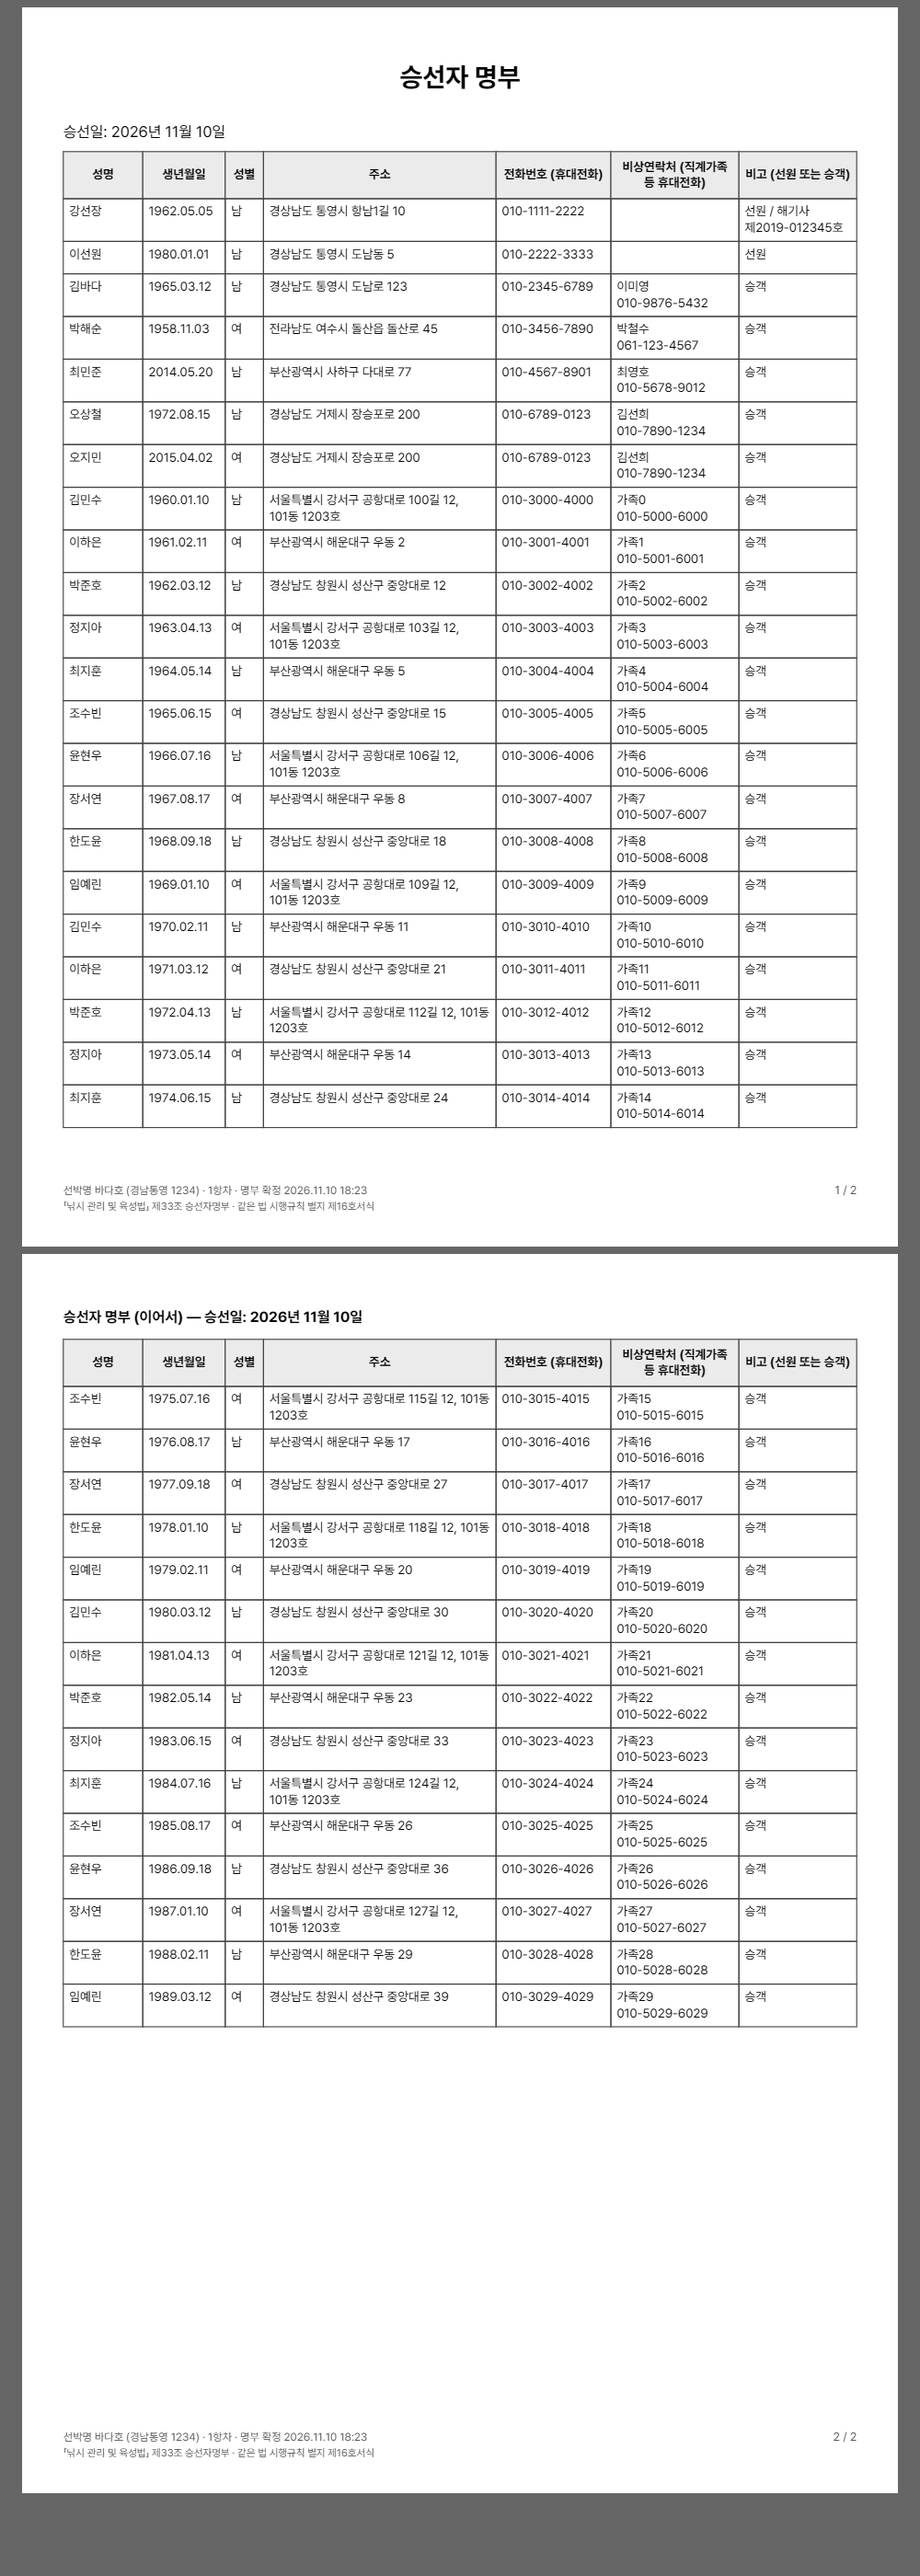
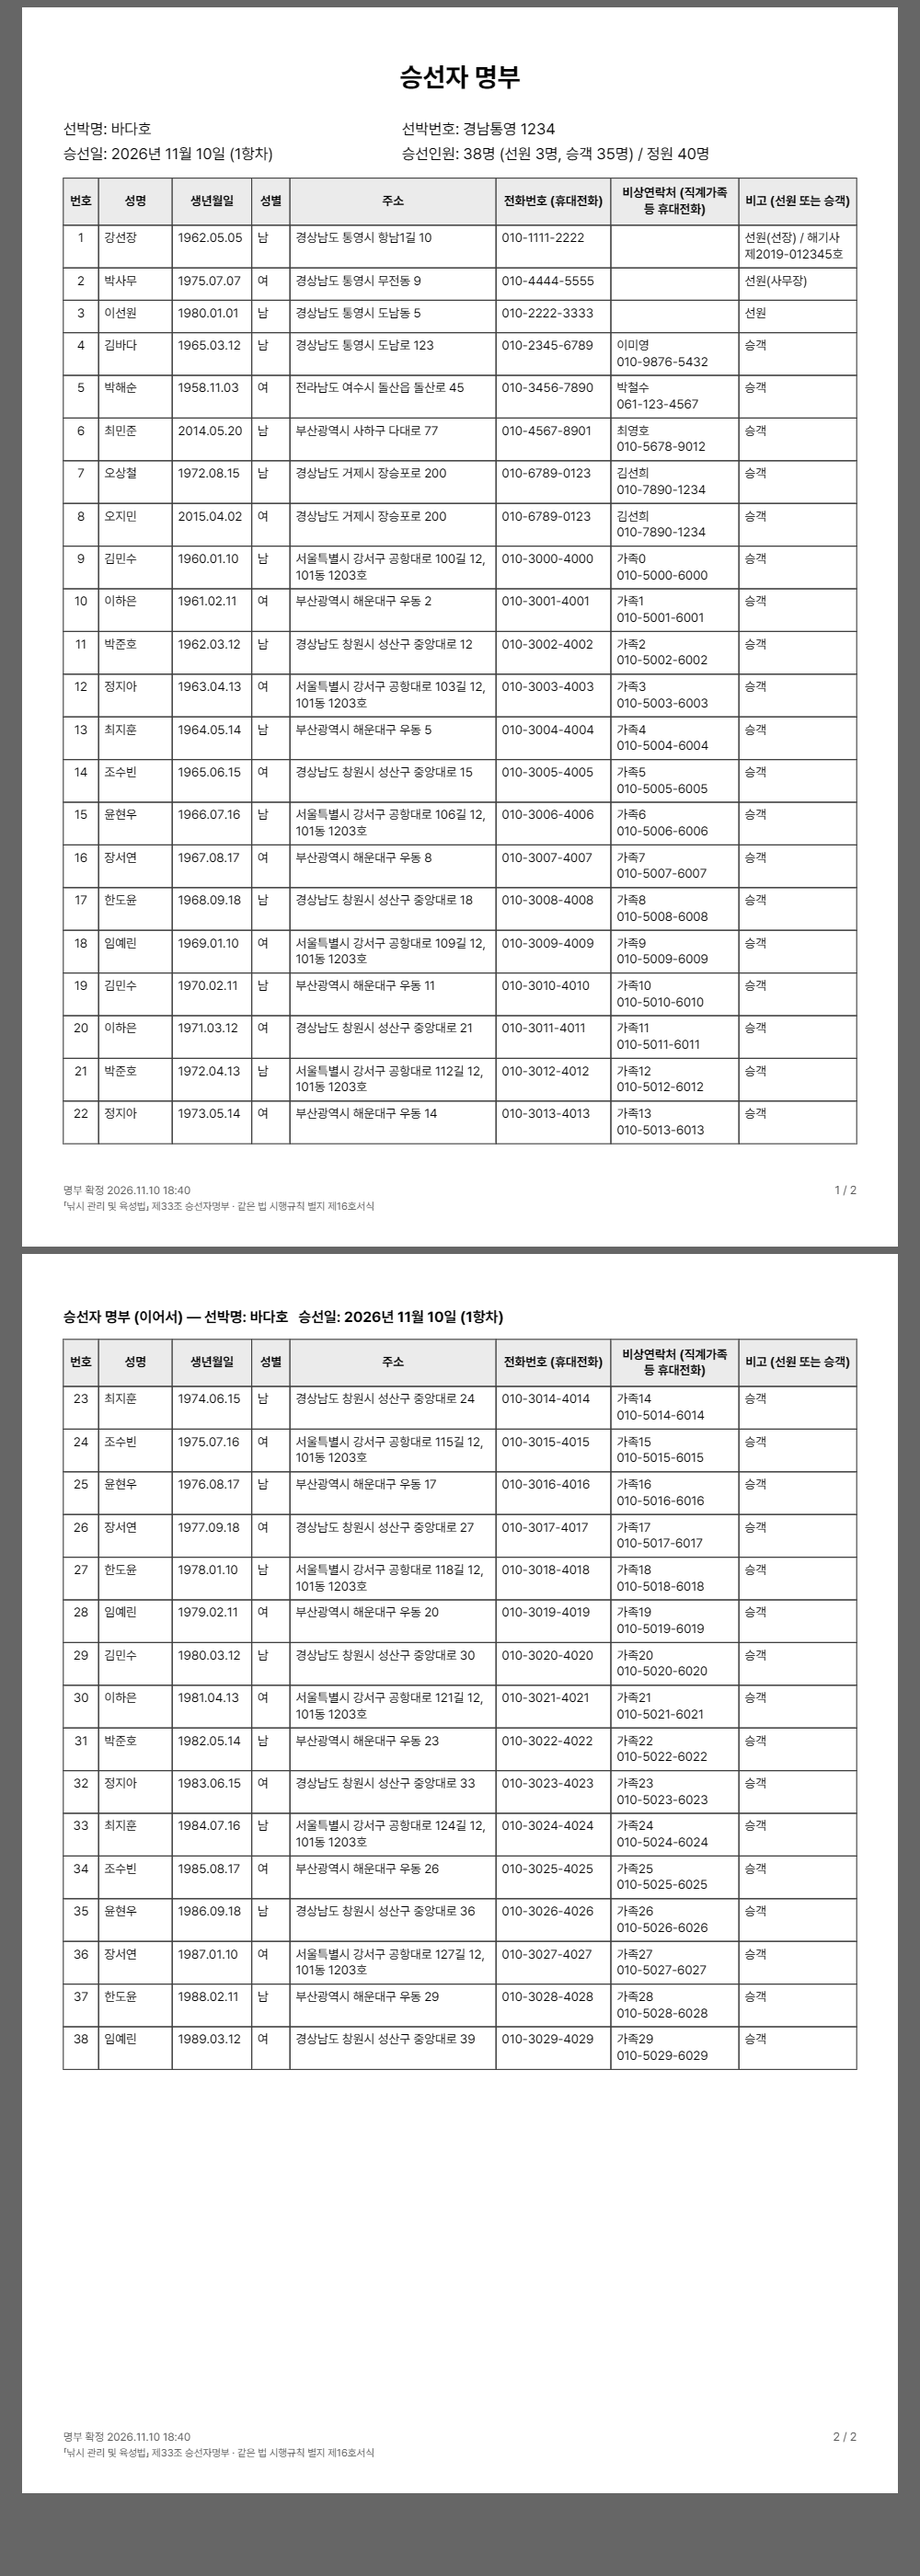
PDF에 배 정보·승선인원·번호, 선장·사무장 순서
- PDF 위쪽: 선박명·선박번호, 승선일(항차), 승선인원(선원·승객)/정원
- 표 맨 앞 번호 칸. 선장 1번 → 사무장 2번(있으면) → 선원 → 승객
- 선장·선원 구분에 사무장 추가(선장·사무장은 한 명씩)

diff --git a/captain/export.js b/captain/export.js
@@ -31,10 +31,13 @@
   }
   function hm(ts) { var d = new Date(ts); return pad(d.getHours()) + ':' + pad(d.getMinutes()); }
 
-  // 명부 한 장의 줄: 선장·선원이 맨 위, 그다음 승객(제외한 사람은 빼고, 일행끼리 붙여서)
+  // 명부 한 장의 줄: 선장(1번) → 사무장(있으면 2번) → 선원 → 승객(제외한 사람은 빼고, 일행끼리 붙여서)
+  function roleRank(r) { return r === '선장' ? 0 : r === '사무장' ? 1 : 2; }
   function manifestRows(voyage, passengers) {
     var rows = [], n = 0;
-    (voyage.crew || []).forEach(function (c) {
+    (voyage.crew || []).map(function (c, i) { return { c: c, i: i }; })
+      .sort(function (a, b) { return roleRank(a.c.role) - roleRank(b.c.role) || a.i - b.i; })
+      .forEach(function (x) { var c = x.c;
       rows.push({ no: ++n, kind: c.role, name: c.name, birth: c.birth, sex: c.sex, addr: c.addr, phone: c.phone, license: c.license || '',
         emer: '-', group: '-', idcheck: '-' });
     });
@@ -116,21 +119,29 @@
 
   // 법정 서식(낚시 관리 및 육성법 시행규칙 별지 제16호서식) 칸 순서 — PDF 전용. 일행·신분증 확인 같은 앱 정보는 엑셀에만
   var FORM_COLUMNS = [
-    { header: '성명', w: 54, get: function (r) { return r.name; } },
-    { header: '생년월일', w: 56, get: function (r) { return String(r.birth || '').replace(/-/g, '.'); } },
+    { header: '번호', w: 24, get: function (r) { return String(r.no); }, center: true },
+    { header: '성명', w: 50, get: function (r) { return r.name; } },
+    { header: '생년월일', w: 54, get: function (r) { return String(r.birth || '').replace(/-/g, '.'); } },
     { header: '성별', w: 26, get: function (r) { return r.sex; } },
-    { header: '주소', w: 158, get: function (r) { return r.addr; } },
+    { header: '주소', w: 140, get: function (r) { return r.addr; } },
     { header: '전화번호 (휴대전화)', w: 78, get: function (r) { return r.phone; } },
     { header: '비상연락처 (직계가족 등 휴대전화)', w: 87, get: function (r) { return r.kind === '승객' ? r.emer : ''; } },
-    { header: '비고 (선원 또는 승객)', w: 80, get: function (r) { return r.kind === '승객' ? '승객' : '선원' + (r.license ? ' / ' + r.license : ''); } }
+    { header: '비고 (선원 또는 승객)', w: 80, get: function (r) { return r.kind === '승객' ? '승객' : (r.kind === '선원' ? '선원' : '선원(' + r.kind + ')') + (r.license ? ' / ' + r.license : ''); } }
   ];
   function formDate(ymd) {
     var p = String(ymd || '').split('-');
     return p.length === 3 ? p[0] + '년 ' + p[1] + '월 ' + p[2] + '일' : '';
   }
+  // 서식 위쪽: 배 이름·번호, 승선일, 승선인원(정원은 선장이 처음 넣은 배 정보)
+  function formHead(vessel, voyage, passengers) {
+    var pax = passengers.filter(function (p) { return !p.excluded; }).length, crew = (voyage.crew || []).length;
+    return [
+      ['선박명: ' + vessel.name, '선박번호: ' + vessel.number],
+      ['승선일: ' + formDate(voyage.date) + ' (' + voyage.no + '항차)', '승선인원: ' + (pax + crew) + '명 (선원 ' + crew + '명, 승객 ' + pax + '명) / 정원 ' + vessel.capacity + '명']
+    ];
+  }
   function formInfo(vessel, voyage) {
-    return '선박명 ' + vessel.name + ' (' + vessel.number + ') · ' + voyage.no + '항차' +
-      (voyage.confirmedAt ? ' · 명부 확정 ' + dateTime(voyage.confirmedAt) : ' · 확정 전');
+    return voyage.confirmedAt ? '명부 확정 ' + dateTime(voyage.confirmedAt) : '확정 전';
   }
 
   function pdf(vessel, voyage, passengers) {
@@ -141,7 +152,8 @@
         doc.setTitle(fileBase(vessel, voyage));
         doc.setCreator('승선명부 앱');
         // 명부에 쓰는 글자를 모두 모아 그 글자만 남긴 글꼴을 만든 뒤 통째로 심는다
-        var text = ['승선자 명부', '승선일: ' + formDate(voyage.date), formInfo(vessel, voyage), FOOT, '(이어서) — / 0123456789.:']
+        var text = ['승선자 명부 선원() 사무장 선장', formInfo(vessel, voyage), FOOT, '(이어서) — / 0123456789.:']
+          .concat([].concat.apply([], formHead(vessel, voyage, passengers)))
           .concat(FORM_COLUMNS.map(function (c) { return c.header; }))
           .concat(manifestRows(voyage, passengers).map(function (r) { return FORM_COLUMNS.map(function (c) { return c.get(r); }).join(' '); }))
           .join(' ');
@@ -161,7 +173,7 @@
     var ink = L.rgb(0, 0, 0), line = L.rgb(0.25, 0.25, 0.25), head = L.rgb(0.92, 0.92, 0.92), muted = L.rgb(0.35, 0.35, 0.35);
     var rows = manifestRows(voyage, passengers);
     var TW = FORM_COLUMNS.reduce(function (a, c) { return a + c.w; }, 0), X0 = (W - TW) / 2;
-    var title = '승선자 명부', dateLine = '승선일: ' + formDate(voyage.date);
+    var title = '승선자 명부', headLines = formHead(vessel, voyage, passengers);
     var pages = [], page, y;
     var headCells = FORM_COLUMNS.map(function (c) { return wrap(c.header, bold, HSIZE, c.w - PAD * 2); });
     var headH = Math.max.apply(null, headCells.map(function (c) { return c.length; })) * LH + PAD * 2 + 2;
@@ -173,11 +185,15 @@
       if (pages.length === 1) {
         var tw = bold.widthOfTextAtSize(title, 18);
         page.drawText(title, { x: (W - tw) / 2, y: y - 18, size: 18, font: bold, color: ink });
-        y -= 42;
-        page.drawText(dateLine, { x: X0, y: y - 10, size: 10.5, font: font, color: ink });
-        y -= 20;
+        y -= 40;
+        headLines.forEach(function (pair) {
+          page.drawText(pair[0], { x: X0, y: y - 10, size: 10.5, font: font, color: ink });
+          page.drawText(pair[1], { x: X0 + 230, y: y - 10, size: 10.5, font: font, color: ink });
+          y -= 17;
+        });
+        y -= 6;
       } else {
-        page.drawText(title + ' (이어서) — ' + dateLine, { x: X0, y: y - 10, size: 10, font: bold, color: ink });
+        page.drawText(title + ' (이어서) — ' + headLines[0][0] + '   ' + headLines[1][0], { x: X0, y: y - 10, size: 10, font: bold, color: ink });
         y -= 22;
       }
       drawRow(headCells, headH, true);
@@ -189,7 +205,7 @@
         var n = cellLines[i].length;
         cellLines[i].forEach(function (t, k) {
           var f = isHead ? bold : font, sz = isHead ? HSIZE : SIZE;
-          var tx = isHead ? x + (c.w - f.widthOfTextAtSize(t, sz)) / 2 : x + PAD;
+          var tx = isHead || c.center ? x + (c.w - f.widthOfTextAtSize(t, sz)) / 2 : x + PAD;
           var ty = isHead ? y - (h - n * LH) / 2 - 8 - k * LH : y - PAD - 7.5 - k * LH;
           page.drawText(t, { x: tx, y: ty, size: sz, font: f, color: ink });
         });

diff --git a/captain/db.js b/captain/db.js
@@ -1,6 +1,6 @@
 /* 선장 앱 저장소 (IndexedDB) — 테이블: vessel, crew, voyage, passenger
  * vessel   : { id:'main', name, number, capacity, deviceName, pinSalt, pinHash }
- * crew     : { id(자동), role:'선장'|'선원', name, birth, sex, addr, phone, license(해기사 면허·선원수첩 번호, 선택), order }
+ * crew     : { id(자동), role:'선장'|'사무장'|'선원', name, birth, sex, addr, phone, license(해기사 면허·선원수첩 번호, 선택), order }
  * voyage   : { id:'YYYY-MM-DD_N', date, no, openedAt, status:'open'|'confirmed', confirmedAt, sharedAt, deviceName, crew:[선장·선원 사본] }
  * passenger: { id(자동), voyageId, key(성명|생년월일|전화), name, birth, sex, addr, phone, emerName, emerPhone,
  *              grp, idx, cnt, made, source:'camera'|'image'|'manual'|'merge', addedAt, device,
@@ -79,10 +79,12 @@
     });
   }
 
+  // 명부 순서: 선장(1번) → 사무장(있으면 2번) → 선원 → 승객
+  function roleRank(r) { return r === '선장' ? 0 : r === '사무장' ? 1 : 2; }
   function crewList() {
     return all('crew').then(function (list) {
       return list.sort(function (a, b) {
-        if (a.role !== b.role) return a.role === '선장' ? -1 : 1;
+        if (a.role !== b.role) return roleRank(a.role) - roleRank(b.role);
         return (a.order || 0) - (b.order || 0) || a.id - b.id;
       });
     });
@@ -134,7 +136,7 @@
 
   root.DB = {
     open: open, get: get, put: put, del: del, all: all, byIndex: byIndex,
-    addPassenger: addPassenger, updatePassenger: updatePassenger, passengers: passengers, crewList: crewList,
+    addPassenger: addPassenger, updatePassenger: updatePassenger, passengers: passengers, crewList: crewList, roleRank: roleRank,
     openVoyage: openVoyage, refreshOpenVoyageCrew: refreshOpenVoyageCrew, deleteVoyage: deleteVoyage
   };
 })(window);

diff --git a/captain/app.js b/captain/app.js
@@ -219,8 +219,8 @@
             '<a class="back" href="#/settings">← 설정</a>' +
             '<h1>' + (c ? '선장·선원 정보' : '선장·선원 추가') + '</h1>' +
             '<form id="cform" class="form" novalidate>' +
-              '<fieldset class="field" id="wrap-role"><legend>구분</legend><div class="seg">' +
-                ['선장', '선원'].map(function (r) {
+              '<fieldset class="field" id="wrap-role"><legend>구분</legend><div class="seg seg-3">' +
+                ['선장', '사무장', '선원'].map(function (r) {
                   return '<label class="seg-item"><input type="radio" name="role" value="' + r + '"' + (p.role === r ? ' checked' : '') + '><span>' + r + '</span></label>';
                 }).join('') +
               '</div><p class="err" id="err-role"></p></fieldset>' +
@@ -241,7 +241,10 @@
           d.role = f.elements.role.value;
           d.license = f.elements.license.value.trim();
           var errs = PersonForm.validate(Object.assign({ emerName: '', emerPhone: '' }, d), { emergency: false });
-          if (d.role !== '선장' && d.role !== '선원') errs.role = '구분을 골라 주세요';
+          if (['선장', '사무장', '선원'].indexOf(d.role) < 0) errs.role = '구분을 골라 주세요';
+          else if (d.role !== '선원' && crew.some(function (x) { return x.role === d.role && (!c || x.id !== c.id); })) {
+            errs.role = d.role + '은 한 명만 둘 수 있습니다. 이미 있는 ' + d.role + ' 정보를 고쳐 주세요';
+          }
           if (PersonForm.showErrors(f, errs)) return;
           var rec = Object.assign(c || { order: Date.now() }, d);
           DB.put('crew', rec).then(function () {

diff --git a/captain/style.css b/captain/style.css
@@ -169,6 +169,7 @@
 .send-state { text-align: center; font-size: var(--fs-small); color: var(--text-muted); }
 .form-fields { border: 0; padding: 0; margin: 0; min-width: 0; display: grid; gap: 20px; }
 .form-fields:disabled input, .form-fields:disabled textarea { background: var(--bg); color: var(--text-muted); }
+.seg-3 { grid-template-columns: repeat(3, 1fr); }
 .seg-4 { grid-template-columns: repeat(4, 1fr); margin-top: 12px; }
 .seg-4 .seg-item span { font-size: 18px; }
 .pin-dialog-input { width: 100%; min-height: 60px; margin-top: 12px; border: 2px solid var(--border); border-radius: var(--radius); }

diff --git a/captain/sw.js b/captain/sw.js
@@ -1,5 +1,5 @@
 /* 선장용 오프라인 캐시. 파일을 고치면 VERSION 을 올린다 */
-var VERSION = 'captain-v13';
+var VERSION = 'captain-v14';
 var FONT_CACHE = 'bm-fonts';
 var FILES = [
   './',

diff --git a/CLAUDE.md b/CLAUDE.md
@@ -53,7 +53,7 @@
 7. 내보내기: 확정 시 PDF(제출용)·엑셀(보관용) → Web Share API 공유(카톡 PC, 메일, 구글 드라이브)
    - 보내기는 미리보기 화면(`#/v/:id/sheet`, 확정 뒤)에서: PDF 보내기 · 사진 보내기(Export.png, 캔버스 PNG) · 엑셀 저장(11-10). 안드로이드 크롬은 .xlsx 공유를 막아 엑셀은 바로 다운로드 → "카톡 ＋ → 파일 → 다운로드" 안내 창
    - 파일 이름: `2026-10-30_1항차_선박명.pdf` / `.xlsx`
-   - **PDF = 법정 서식(시행규칙 별지 제16호서식, 11-10)**: A4 세로, 제목 "승선자 명부", "승선일: YYYY년 MM월 DD일", 칸 순서 성명·생년월일·성별·주소·전화번호(휴대전화)·비상연락처(직계가족 등 휴대전화)·비고(선원 또는 승객). 선원 비고는 "선원 / 면허·수첩 번호"(crew.license, 선택). 장이 넘어가면 머리줄 반복. 아래쪽에 선박명·항차·확정 시각·쪽수를 작게. 칸 정의는 export.js FORM_COLUMNS
+   - **PDF = 법정 서식(시행규칙 별지 제16호서식, 11-10)**: A4 세로, 제목 "승선자 명부", 그 아래 선박명·선박번호 / 승선일(항차)·승선인원(선원·승객, 정원은 배 정보), 칸 순서 번호·성명·생년월일·성별·주소·전화번호(휴대전화)·비상연락처(직계가족 등 휴대전화)·비고(선원 또는 승객). 선원 비고는 "선원 / 면허·수첩 번호"(crew.license, 선택), 선장·사무장은 "선원(선장)"·"선원(사무장)". 줄 순서: 선장 1번 → 사무장(있으면) 2번 → 선원 → 승객(구분 선장·사무장은 한 명씩만). 장이 넘어가면 머리줄 반복. 아래쪽에 선박명·항차·확정 시각·쪽수를 작게. 칸 정의는 export.js FORM_COLUMNS
    - 엑셀·사진·명부 보기는 앱 칸(COLUMNS): 번호, 구분, 성명, 생년월일, 성별, 주소, 휴대전화, 비상연락처, 일행, 신분증 확인 시각 — 일행·신분증 확인은 PDF에 안 넣음
    - PDF 한글 깨짐 주의 — 한글 폰트 임베드 등 안정적 방법, 고른 방법과 이유를 보고
 8. 지난 명부: 날짜별 목록, 다시 내보내기, 공유 안 한 항차 "미전송" 표시, "이번 달 전체 엑셀"

diff --git a/docs/TASKS.md b/docs/TASKS.md
@@ -4,6 +4,8 @@
 📋 다음: 삼월이 폰에서 손님 저장·미리보기(PDF·사진 보내기, 엑셀 저장) 확인 → 실제 폰 최종 점검(아래 9줄)
 
 - 11-10 바꾼 것
+  - PDF 위쪽에 선박명·선박번호, 승선일(항차), 승선인원(선원·승객) / 정원(배 정보) 넣음. 표 맨 앞에 번호 칸
+  - 선장·선원 구분에 "사무장" 추가. 순서: 선장 1번 → 사무장 2번(있으면) → 선원 → 승객. 선장·사무장은 한 명씩만. 비고 "선원(선장)"·"선원(사무장)"
   - PDF를 법정 서식(별지 제16호서식)에 맞춤: A4 세로, "승선자 명부" / "승선일: 2026년 11월 10일", 칸 순서 성명·생년월일·성별·주소·전화번호·비상연락처·비고(선원 또는 승객), 넘어가면 머리줄 반복. 일행·신분증 확인 시각은 엑셀에만
   - 선장·선원 입력에 "해기사 면허번호 또는 선원수첩 번호"(선택) → PDF 비고 "선원 / 번호"
   - 손님 비상연락처 안내: "직계가족 등 휴대전화 (배에 같이 타지 않는 분)"
